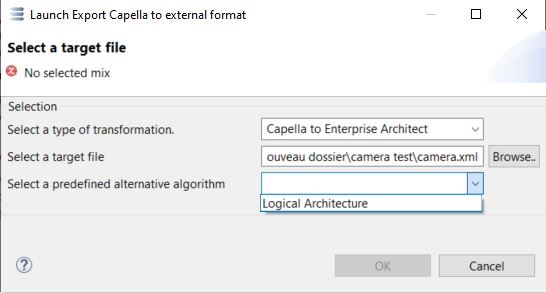
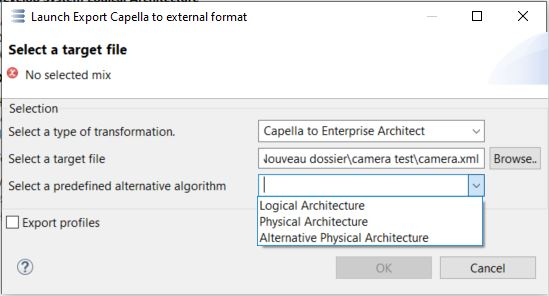
fix retour

Changed region(s): [[0.0, 0.0, 1.0, 1.0]]

diff --git a/Plugins/org.eclipse.capella.mapping.capella2uml/src/org/eclipse/capella/mapping/capella2uml/bridge/rules/utils/SpecificUtils.java b/Plugins/org.eclipse.capella.mapping.capella2uml/src/org/eclipse/capella/mapping/capella2uml/bridge/rules/utils/SpecificUtils.java
@@ -185,7 +185,7 @@ public class SpecificUtils {
 
 				EnumerationPropertyLiteral valueLiteral = ((EnumerationPropertyValue) abstractPropertyValue).getValue();
 				if (valueLiteral != null) {
-					value = valueLiteral.getFullLabel();
+					value = valueLiteral.getLabel();
 				}
 			}
 			if (abstractPropertyValue instanceof FloatPropertyValue) {
@@ -236,7 +236,7 @@ public class SpecificUtils {
 
 	static public String getCapellaImportName(AbstractMapping rule) {
 		AbstractMappingAlgoMix<?, CapellaBridgeAlgo<?>> mix = rule.getAlgo().getMix();
-		return mix.getMixName();
+		return mix.getPackageName();
 	}
 
 	static public AnyType getOrCreateCustomizationList(XMIResource res, EObject sourceItem) {
@@ -450,7 +450,7 @@ public class SpecificUtils {
 
 				EnumerationPropertyLiteral valueLiteral = ((EnumerationPropertyValue) abstractPropertyValue).getValue();
 				if (valueLiteral != null) {
-					value = valueLiteral.getFullLabel();
+					value = valueLiteral.getLabel();
 				}
 			}
 			if (abstractPropertyValue instanceof FloatPropertyValue) {

diff --git a/Plugins/org.eclipse.capella.mapping.capella2uml/src/org/eclipse/capella/mapping/capella2uml/bridge/rules/PropertyMapping.java b/Plugins/org.eclipse.capella.mapping.capella2uml/src/org/eclipse/capella/mapping/capella2uml/bridge/rules/PropertyMapping.java
@@ -180,8 +180,13 @@ public class PropertyMapping extends AbstractDynamicMapping<Classifier, Property
 				targetProp.setAssociation(targetAssociation);
 				parent.getOwnedAttributes().add(subProp);
 
-				XMIExtensionsUtils.addConnector(targetAssociation, getAlgo().getXMIExtension(), sysMLID, "Unspecified",
-						"Association", subProp, targetProp, true);
+				if (source.getAggregationKind() == AggregationKind.ASSOCIATION) {
+					XMIExtensionsUtils.addConnector(targetAssociation, getAlgo().getXMIExtension(), sysMLID,
+							"Destination -&gt; Source", "Association", subProp, targetProp, true);
+				} else {
+					XMIExtensionsUtils.addConnector(targetAssociation, getAlgo().getXMIExtension(), sysMLID,
+							"Unspecified", "Association", subProp, targetProp, true);
+				}
 			}
 		}
 		if (eaContainer instanceof Component) {

diff --git a/Plugins/org.eclipse.capella.mapping.capella2uml/src/org/eclipse/capella/mapping/capella2uml/bridge/mix/AlternativePhysicalArchitectureMix.java b/Plugins/org.eclipse.capella.mapping.capella2uml/src/org/eclipse/capella/mapping/capella2uml/bridge/mix/AlternativePhysicalArchitectureMix.java
@@ -34,6 +34,11 @@ public class AlternativePhysicalArchitectureMix extends AbstractMappingAlgoMix<P
 
 	@Override
 	public String getMixName() {
+		return "Import Capella PA/Interfaces from Capella CE";
+	}
+	
+	@Override
+	public String getPackageName() {
 		return "Alternative Physical Architecture";
 	}
 

diff --git a/Plugins/org.eclipse.capella.mapping.capella2uml/src/org/eclipse/capella/mapping/capella2uml/bridge/mix/DefaultCapella2UMLMix.java b/Plugins/org.eclipse.capella.mapping.capella2uml/src/org/eclipse/capella/mapping/capella2uml/bridge/mix/DefaultCapella2UMLMix.java
@@ -27,7 +27,13 @@ public class DefaultCapella2UMLMix extends AbstractMappingAlgoMix<Project, Capel
 
 	@Override
 	public String getMixName() {
+		return "Import Capella LA/Interfaces from Capella Interfaces";
+	}
+
+	@Override
+	public String getPackageName() {
 		return "Logical Architecture";
 	}
 
+	
 }

diff --git a/Plugins/com.artal.capella.mapping/src/com/artal/capella/mapping/mix/AbstractMappingAlgoMix.java b/Plugins/com.artal.capella.mapping/src/com/artal/capella/mapping/mix/AbstractMappingAlgoMix.java
@@ -22,6 +22,8 @@ abstract public class AbstractMappingAlgoMix<SOURCE, ALGO extends CapellaBridgeA
 
 	abstract public String getMixName();
 
+	abstract public String getPackageName();
+	
 	public MappingRulesManager getManagerRules() {
 		return _managerRules;
 	}

diff --git a/Plugins/org.eclipse.capella.mapping.capella2uml/src/org/eclipse/capella/mapping/capella2uml/bridge/mix/PhysicalArchitectureCapella2UMLMix.java b/Plugins/org.eclipse.capella.mapping.capella2uml/src/org/eclipse/capella/mapping/capella2uml/bridge/mix/PhysicalArchitectureCapella2UMLMix.java
@@ -28,7 +28,7 @@ public class PhysicalArchitectureCapella2UMLMix extends AbstractMappingAlgoMix<P
 
 	@Override
 	public String getMixName() {
-		return "Physical Architecture";
+		return "Import Capella PA/Interfaces from Capella Interfaces";
 	}
 
 }
